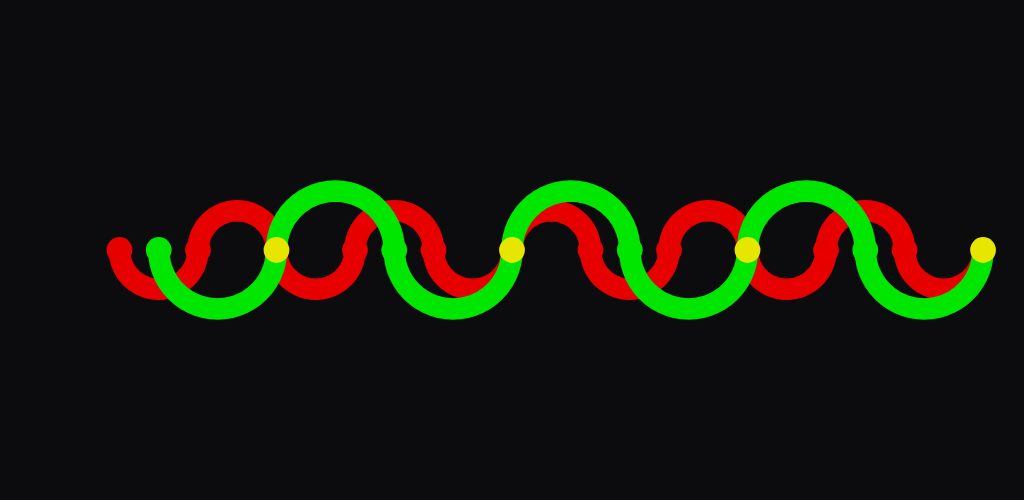
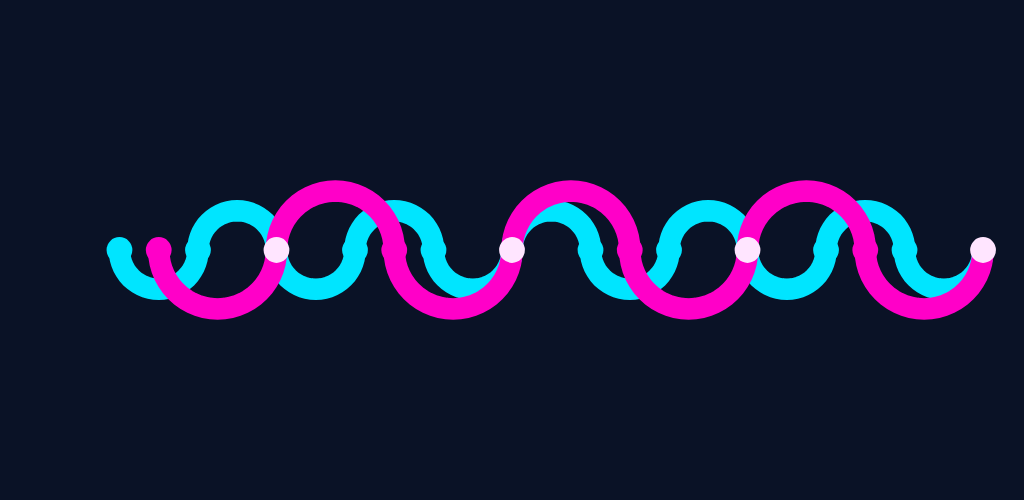
Cyberpunk and navy become the defaults, and the mark follows
The app opens in cyberpunk on navy now, and the whole icon set is
regenerated from that palette: electric cyan and hot magenta weaving on a
navy ground, with the launcher's background colour resource and the page's
theme-color moved to match.

THE ACCENT IS NO LONGER A CHOICE. It was a yellow picked to look right,
with a comment admitting an unselected prime has no colour so yellow was
free rather than false. It is derived now: ask getPrimeRGB what 7 WOULD be
if it were selected alongside 2 and 3, and cyberpunk answers acid lime.
The dot has become the app's own answer to the question the dot is about,
which is a better thing for it to be than a nice colour.

The default background joins the default scheme in being asserted across
state, markup and Reset -- three places, same failure mode.

TWO OF MY OWN TOOLS WERE WRONG AND THE CHECKS CAUGHT BOTH:

  make-logo.mjs takes PRIMES = [2, 3, 5], not [2, 3], so the edit that was
  meant to introduce SCHEME never matched and every call referenced an
  undefined name. Loud, immediate, harmless.

  shot.mjs navigated to <name>.html without ever WRITING it. It had worked
  only because raster.sh happened to leave wrappers behind; in a fresh
  directory every shot was Chrome's broken-image page. At 512px that page
  is big enough to pass the size floor, so 15 of 21 reported ok and only
  the small ones failed -- the floor caught a systemic failure by its
  edges. shot.mjs writes its own wrapper now and owns the whole step.
[…]

Changed region(s): [[0.0938, 0.36, 1.0, 0.66]]

diff --git a/www/index.html b/www/index.html
@@ -28,7 +28,7 @@
 <meta name="viewport" content="width=device-width, initial-scale=1.0, viewport-fit=cover">
 <title>Pretty Number Machine</title>
 <meta name="description" content="An interactive visualisation of prime factorisation, where a number's colour is its factorisation: 2 is red, 3 is green, 5 is blue, and 6 is yellow because 2 x 3.">
-<meta name="theme-color" content="#0c0c0f">
+<meta name="theme-color" content="#0a1226">
 <!-- No <link rel="manifest"> and no `robots` meta. This copy is the APP: it is
      bundled inside the Android shell and never served over the web, so there is
      no crawler to instruct and no browser to persuade that the page could be
@@ -1997,8 +1997,8 @@
       <option value="spectrum">Spectrum (red &rarr; blue)</option>
       <option value="spectrum-rev">Spectrum (blue &rarr; red)</option>
       <optgroup label="Palettes">
-        <option value="okabe-ito" selected>Colorblind-safe</option>
-        <option value="cyberpunk">Cyberpunk (colorblind-safe)</option>
+        <option value="okabe-ito">Colorblind-safe</option>
+        <option value="cyberpunk" selected>Cyberpunk (colorblind-safe)</option>
         <option value="warm">Warm</option>
         <option value="cool">Cool</option>
         <option value="pastel">Pastel</option>
@@ -2018,7 +2018,7 @@
         <option value="black">Black</option>
         <option value="ink">Ink (true black)</option>
         <option value="slate">Slate</option>
-        <option value="navy">Navy</option>
+        <option value="navy" selected>Navy</option>
         <option value="plum">Plum</option>
         <option value="forest">Forest</option>
       </optgroup>
@@ -2218,7 +2218,7 @@
     </div>
   </div>
 
-  <div style="font-size:0.75rem; color:rgba(224,221,213,0.55); margin-top:10px; letter-spacing:0.03em;">v1.0.0-dev.34 &middot; &copy; 2026 Schuck Data (a DS89 Holdco LLC company)</div>
+  <div style="font-size:0.75rem; color:rgba(224,221,213,0.55); margin-top:10px; letter-spacing:0.03em;">v1.0.0-dev.35 &middot; &copy; 2026 Schuck Data (a DS89 Holdco LLC company)</div>
 </div>
 
 <!-- A sibling of #panel, not a child. Inside the panel it would either scroll

diff --git a/www/core/state.js b/www/core/state.js
@@ -70,14 +70,16 @@ export const DEFAULT_CONFIG = {
   // registry would pull Three.js into a module that is deliberately free of it.
   // If the order at the bottom of positions.js changes, this changes with it.
   dimension: 0.5,
-  // Okabe-Ito, the colourblind-safe palette, chosen as the DEFAULT on
-  // 2026-08-25. Additive RGB is still the scheme that makes the app's central
+  // Cyberpunk, chosen as the DEFAULT on 2026-08-25 -- and it is colourblind-safe
+  // by measurement, not by intention: tools/check.mjs holds it to 16.9 dE under
+  // simulated protanopia, deuteranopia and tritanopia, with 34 degrees between
+  // its closest hues. Okabe-Ito, the published reference, is one option away. Additive RGB is still the scheme that makes the app's central
   // claim literally true -- 2 red plus 3 green really is 6 yellow -- and it is
   // one option away. But the first thing a new player sees should be legible to
   // the most people, and this palette is designed for exactly that. The three
   // markup places that must agree are DEFAULT_CONFIG here, the `selected`
   // attribute in index.html, and Reset in panel.js.
-  colorScheme: 'okabe-ito',
+  colorScheme: 'cyberpunk',
   nodeSize: 1.0,
   lineWidth: 2,
   showNodes: true,
@@ -150,7 +152,9 @@ export const DEFAULT_CONFIG = {
   // because that is what the <input type=color> gives and what the viewport
   // wants -- converting twice would be the only reason to store a number.
   backgroundColor: '#0c0c0f',
-  backgroundStyle: 'black',
+  // Navy, paired with the cyberpunk default: the palette is built of neons and
+  // neon wants a ground with some colour in it. Black is one option away.
+  backgroundStyle: 'navy',
   onStateChange: null,
 };
 

diff --git a/www/core/panel.js b/www/core/panel.js
@@ -894,8 +894,8 @@ export function initPanel() {
     grid.querySelectorAll('.prime-btn').forEach(btn => {
       btn.classList.toggle('active', [2, 3, 5].includes(+btn.dataset.prime));
     });
-    $('color-scheme').value = 'okabe-ito';
-    $('background-style').value = 'black';
+    $('color-scheme').value = 'cyberpunk';
+    $('background-style').value = 'navy';
     $('background-color').value = '#0c0c0f';
     // The three sliders are the visible control now, so Reset has to move them
     // or the panel shows one colour while state holds another.
